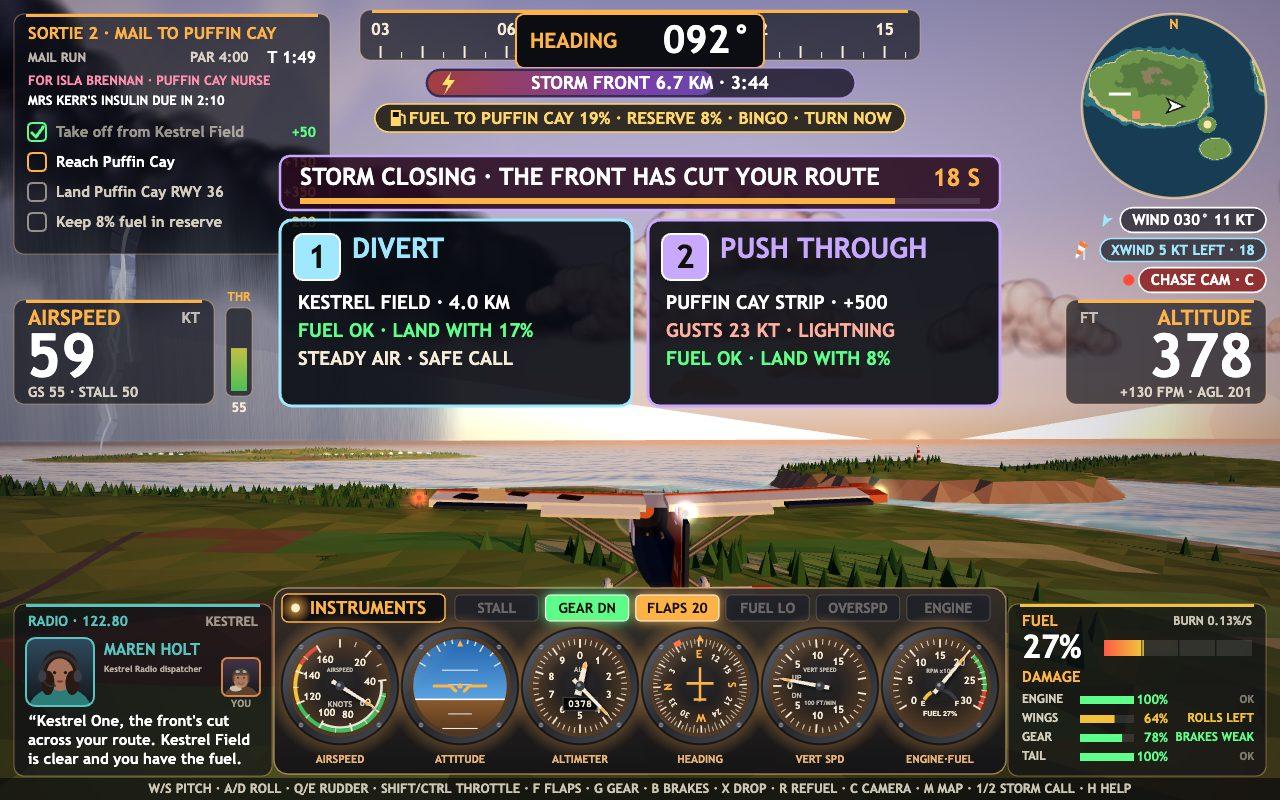
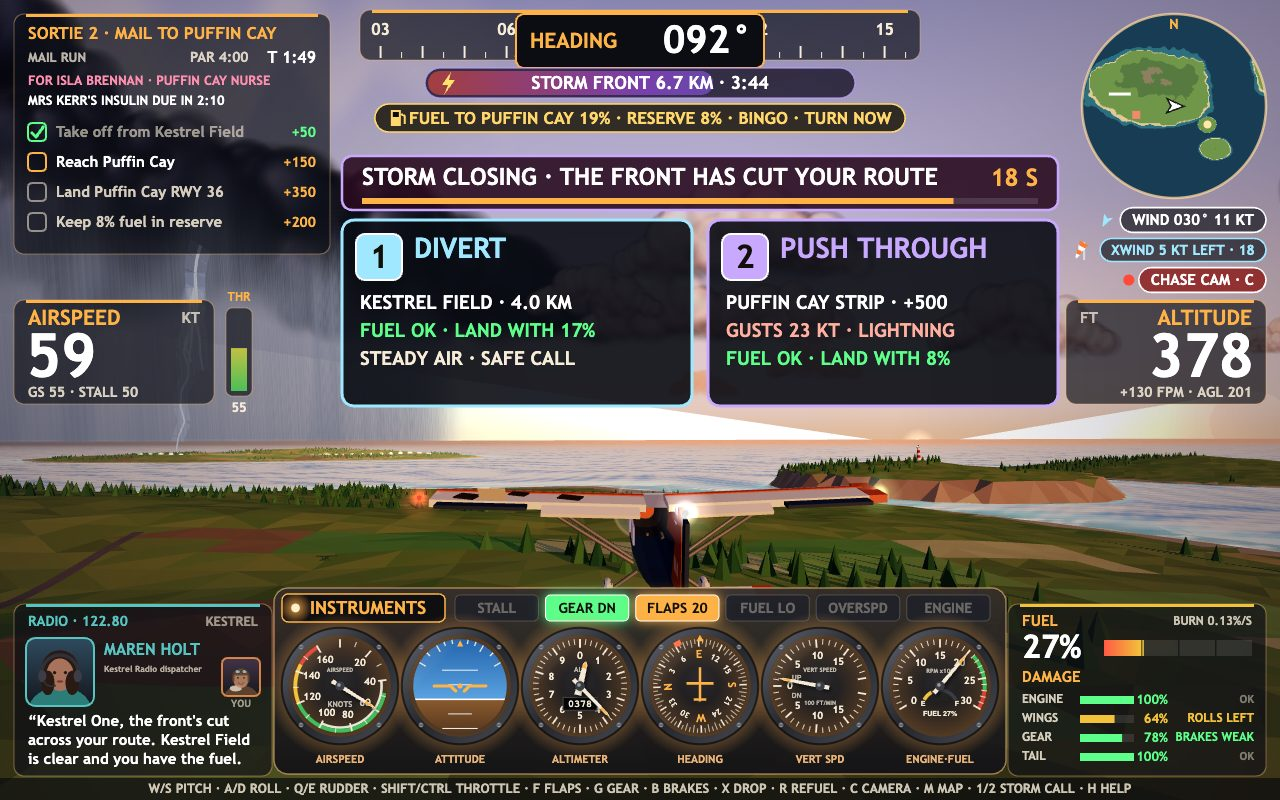
Storm call card sits clear of the checklist; the bolt behind it shows

Changed region(s): [[0.2188, 0.1875, 0.8438, 0.5312], [0.0625, 0.2812, 0.1875, 0.375]]

diff --git a/game/src/divert-panel.js b/game/src/divert-panel.js
@@ -35,8 +35,9 @@ export function drawDivertPanel(g, W, H, session) {
   const crisis = session.crisis;
   if (!crisis || crisis.state !== 'open') return;
   const { divert, push } = crisis.options;
-  const w = 720;
-  const x = (W - w) / 2;
+  // Between the checklist on the left and the altitude box on the right.
+  const w = 716;
+  const x = Math.max(342, (W - w) / 2);
   const y = 156;
   const head = 'STORM CLOSING · THE FRONT HAS CUT YOUR ROUTE';
   g.fillStyle = 'rgba(40,10,30,0.88)';

diff --git a/game/src/shots.js b/game/src/shots.js
@@ -118,7 +118,7 @@ export function stageShot(name, seed) {
         say(s, SPEAKER_PILOT, 'Clipped the pines on the ridge! Left wing’s torn.');
       }
     });
-    boltInView(session, -34, (SETTLE_STEPS + 30) * STEP);
+    boltInView(session, -30, (SETTLE_STEPS + 30) * STEP);
     return { screen: 'fly', session, view: 'chase', pilot, settle: SETTLE_STEPS };
   }
   // The cover: Beacon Rings on final through ring 8, having pushed through the squall.
